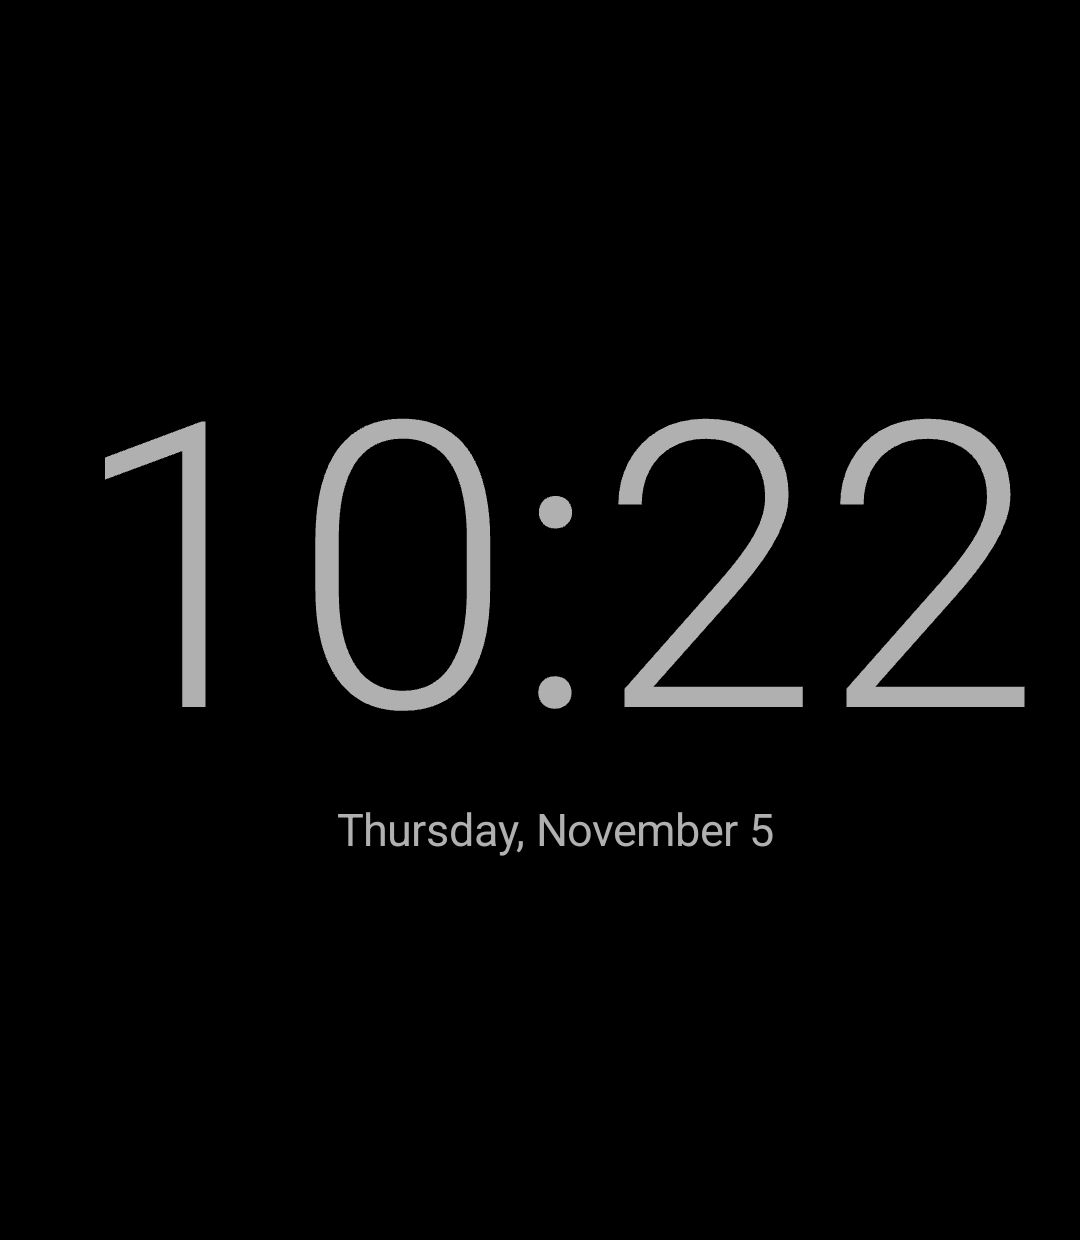
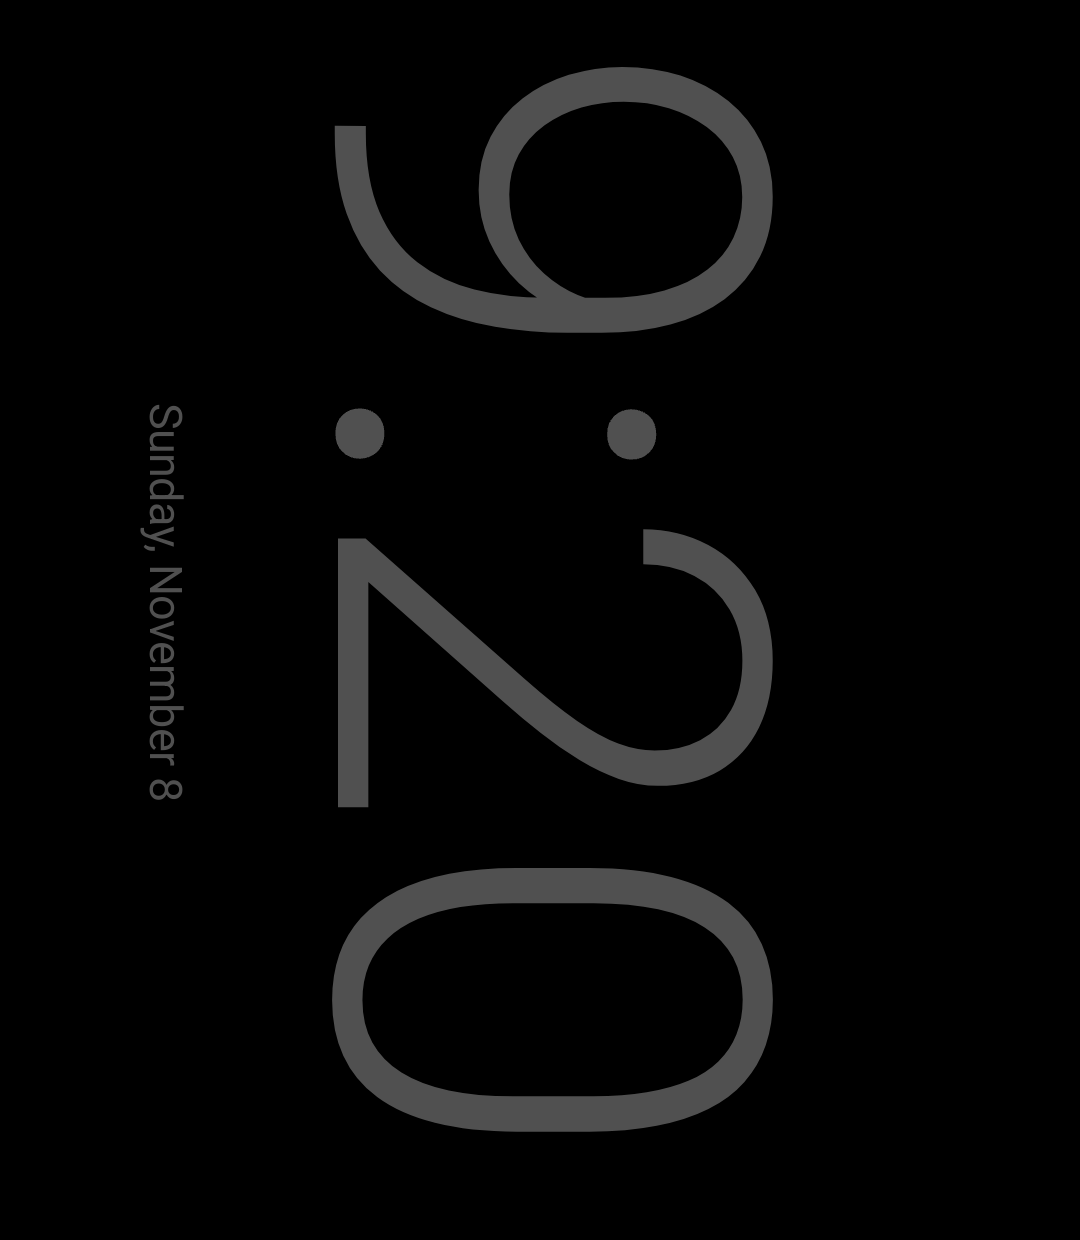
1.0.2: the night clock starts sideways
Most people lay the phone on its side on the nightstand, so the clock now
opens a quarter turn round, top toward the buttons. Turn still flips it,
and a phone that has already chosen keeps its choice.

diff --git a/tool/src/main/kotlin/com/slowpixels/whitenoise/play/Settings.kt b/tool/src/main/kotlin/com/slowpixels/whitenoise/play/Settings.kt
@@ -17,7 +17,7 @@ class Settings(private val file: File) {
         val motion: Motion = Motion.Off,
         /** How bright the night clock is, and which way up it stands (quarter turns clockwise). */
         val clockGlow: Int = 1,
-        val clockTurn: Int = 0,
+        val clockTurn: Int = SIDEWAYS,
     )
 
     val values = MutableStateFlow(read())
@@ -31,7 +31,7 @@ class Settings(private val file: File) {
             mine = parse(p.getProperty("mine")),
             motion = Motion.entries.firstOrNull { it.name == p.getProperty("motion") } ?: Motion.Off,
             clockGlow = p.getProperty("clockGlow")?.toIntOrNull() ?: 1,
-            clockTurn = p.getProperty("clockTurn")?.toIntOrNull() ?: 0,
+            clockTurn = p.getProperty("clockTurn")?.toIntOrNull() ?: SIDEWAYS,
         )
     }
 
@@ -50,6 +50,9 @@ class Settings(private val file: File) {
 
     companion object {
         const val MINE = "mine"
+
+        /** The night clock's default: one quarter turn, for a phone lying on its side with its buttons facing up. */
+        const val SIDEWAYS = 1
 
         private fun parse(s: String?): List<Float>? =
             s?.split(',')?.mapNotNull { it.toFloatOrNull()?.coerceIn(0f, 1f) }?.takeIf { it.size == Bands.COUNT }

diff --git a/tool/src/test/kotlin/com/slowpixels/whitenoise/EngineTest.kt b/tool/src/test/kotlin/com/slowpixels/whitenoise/EngineTest.kt
@@ -205,5 +205,6 @@ class EngineTest {
         assertEquals(1, com.slowpixels.whitenoise.ui.nextTurn(0))
         assertEquals(3, com.slowpixels.whitenoise.ui.nextTurn(1))
         assertEquals(0, com.slowpixels.whitenoise.ui.nextTurn(3))
+        assertEquals("the clock starts sideways", 1, com.slowpixels.whitenoise.play.Settings.Values().clockTurn)
     }
 }

diff --git a/README.md b/README.md
@@ -12,7 +12,7 @@ Noise for sleep, study and quiet, for the Light Phone III. Built with the [Light
 - **Eight ready-made sounds:** Soft, Pink, Brown, Grey, White, Deep, Fan and Airy, and your own shape as Mine.
 - **Animate** moves the sliders slowly by themselves: Zen, Drift, Waves or Breathe.
 - **Sleep timer** from 15 minutes to 8 hours, with a one-minute fade at the end.
-- **Night clock** shows the time on a dark screen while the sound plays. It stays on, has five levels of brightness, and turns sideways for a phone resting on its side.
+- **Night clock** shows the time on a dark screen while the sound plays. It stays on, has five levels of brightness, and lies sideways for a phone resting on its side (a tap on Turn sets it upright).
 
 The noise is made live on the phone from a random number generator, so it never loops and never repeats.
 
